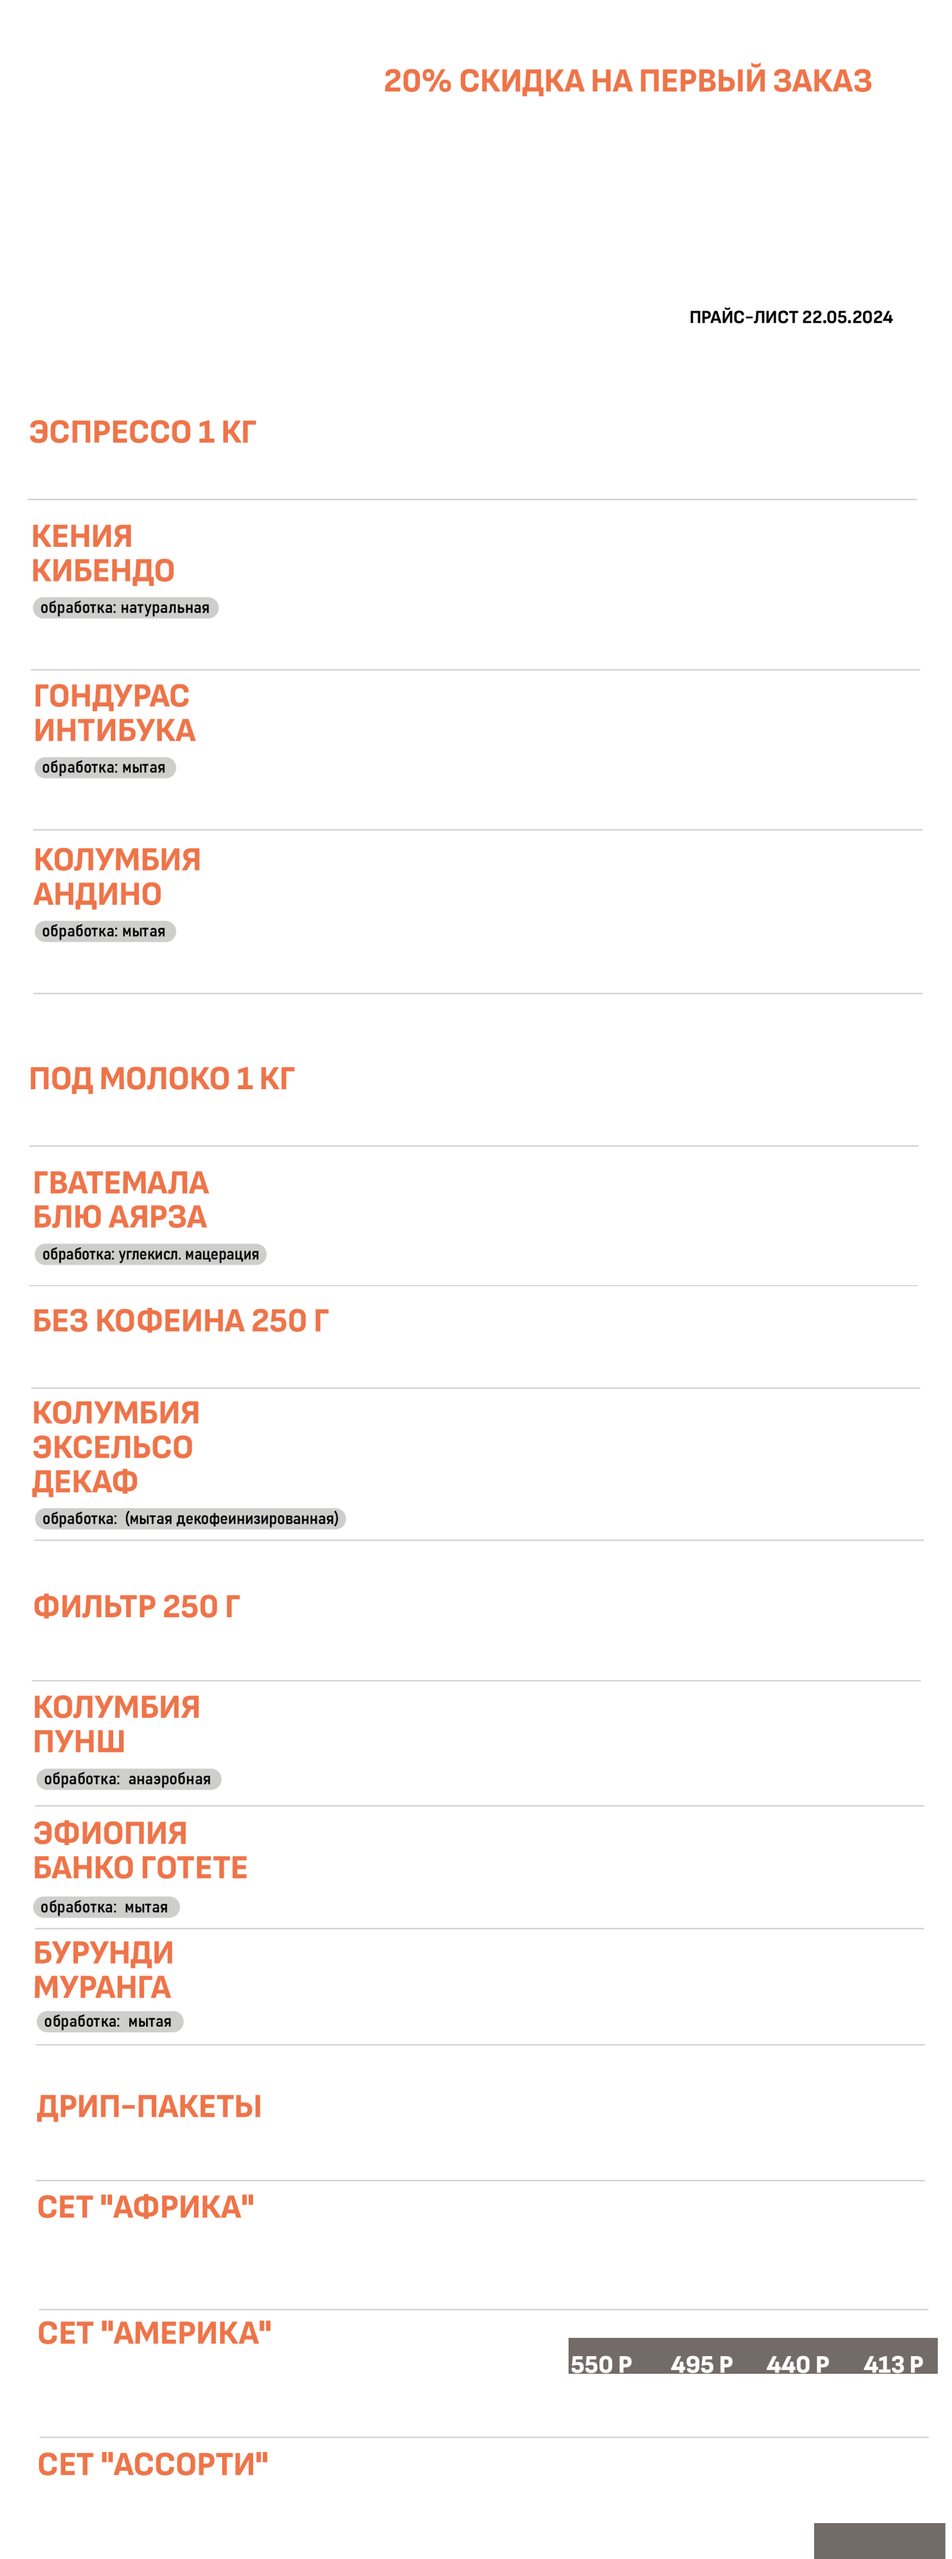
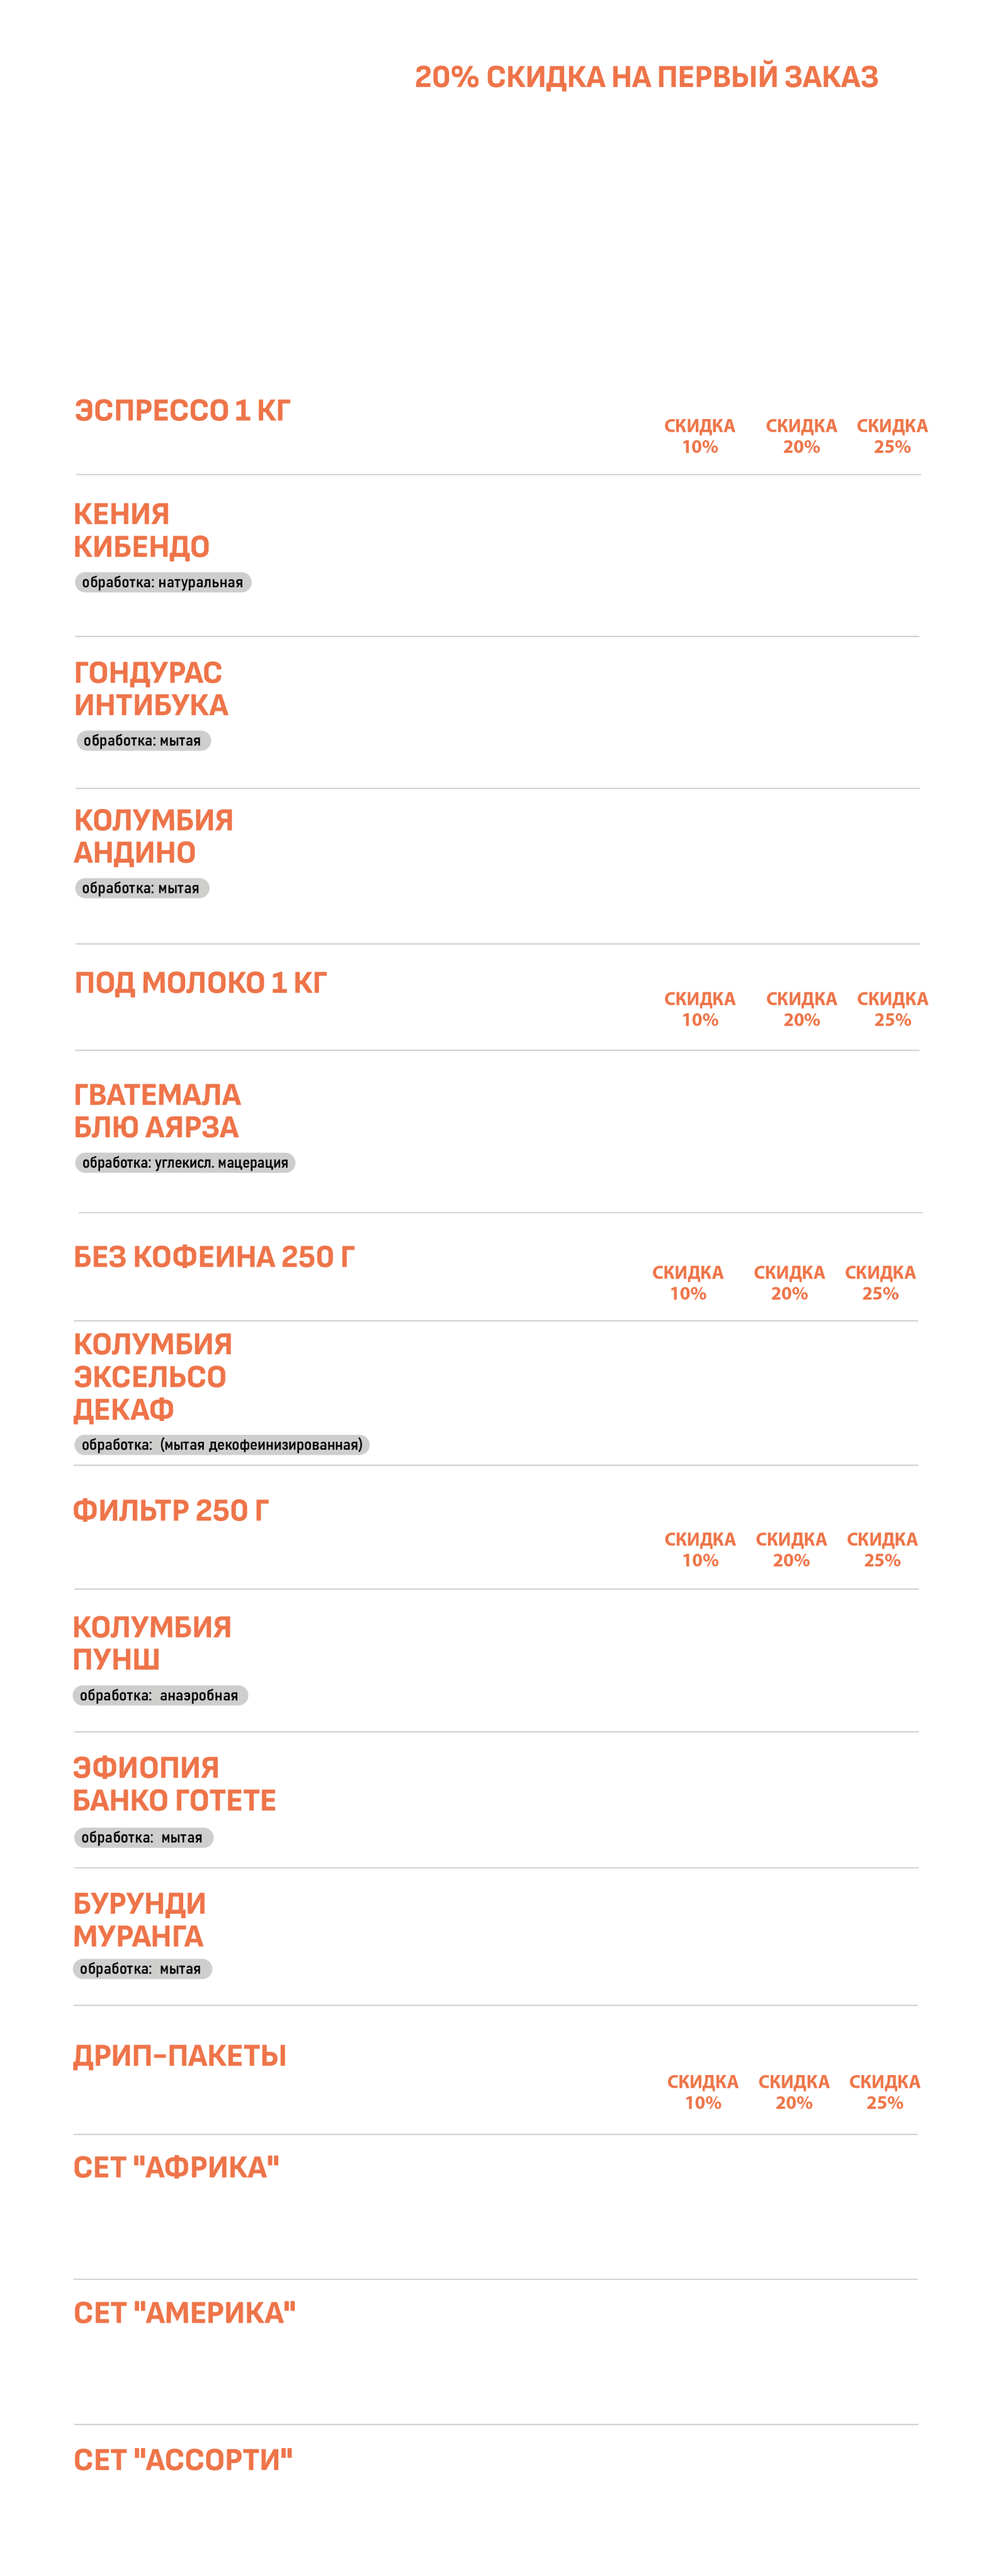
updated img for price

diff --git a/src/css/style.css b/src/css/style.css
@@ -51,6 +51,8 @@
     border-radius: 50%;
 
     cursor: pointer;
+
+    display: none;
 }
 
 .header__basket:hover {
@@ -71,13 +73,12 @@
 
 /* products start */
 .coffee {
-    position: relative;
-
     display: flex;
     padding-top: 2.81vw;
     padding-bottom: 2.97vw;
 
-    
+    background: no-repeat linear-gradient(180deg, rgba(114, 107, 104, 1) 0%, rgba(114, 107, 104, 1) 100%);
+    background-size: 41.5% 100%;
 
     flex-direction: column;
     align-items: center;
@@ -93,6 +94,35 @@
     z-index: 5;
 }
 
+.coffee__wr-button-price {
+    margin-top: 3.23vw;
+    margin-left: 12.24vw;
+}
+
+.coffee__button-price {
+    display: flex;
+
+    width: 17.40vw;
+    height: 2.60vw;
+
+    
+    font-family: "SofiaSans";
+    font-size: 1.04vw;
+    font-weight: 400;
+    
+    color: #fff;
+    border-radius: 1.56vw;
+    background: #F1551C;
+    box-shadow: 31px 18px 10px 0px rgba(0, 0, 0, 0.00),
+     20px 12px 9px 0px rgba(0, 0, 0, 0.02),
+      11px 7px 8px 0px rgba(0, 0, 0, 0.08),
+       5px 3px 6px 0px rgba(0, 0, 0, 0.13),
+        1px 1px 3px 0px rgba(0, 0, 0, 0.15);
+
+    align-items: center;
+    justify-content: center;
+}
+
 .coffee__wr-slider-bottom {
     position: relative;
 
@@ -100,19 +130,6 @@
     width: 85%;
 
     z-index: 5;
-}
-
-.coffee__side-deco {
-    position: absolute;
-    left: 0;
-    top: 0;
-    bottom: 0;
-
-    width: 41.5%;
-
-    background-color: #6B6462;
-
-    z-index: 0;
 }
 
 /* products end */
@@ -143,7 +160,7 @@
     font-weight: 700;
 
     color: #F1551C;
-}
+} 
 
 .orders-are-temporary a {
     text-decoration: underline;
@@ -390,18 +407,53 @@
     }
 }
 
+@media( max-width: 1200px ) {
+    .header__basket {
+        width: 9.87vw;
+        height: 9.87vw;
+
+        display: block;
+        visibility: hidden;
+    }
+}
+
 /* ------------------------------------- */
 
 /* COFFEE */
 @media( max-width: 1200px ) {
     .coffee {
         padding-top: 0;
+        background-size: 0;
+        padding-bottom: 9.97vw;
     }
 }
 
 @media( max-width: 1200px ) {
     .coffee__wr-slider-top {
         width: 100%;
+    }
+}
+
+@media( max-width: 1200px ) {
+    .coffee__wr-button-price {
+        margin-top: 7.20vw;
+        margin-left: 0;
+    }
+}
+
+@media( max-width: 1200px ) {
+    .coffee__button-price {
+        width: 54.40vw;
+        height: 10.67vw;
+
+        font-size: 4.27vw;
+
+        border-radius: 8vw;
+        box-shadow: 31px 18px 10px 0px rgba(0, 0, 0, 0.00),
+         20px 12px 9px 0px rgba(0, 0, 0, 0.02),
+          11px 7px 8px 0px rgba(0, 0, 0, 0.08),
+           5px 3px 6px 0px rgba(0, 0, 0, 0.13),
+            1px 1px 3px 0px rgba(0, 0, 0, 0.15);
     }
 }
 

diff --git a/src/css/slider-coffee.css b/src/css/slider-coffee.css
@@ -418,6 +418,15 @@
 
     width: 75.73vw;
     margin-top: 4.74vw;
+
+    box-shadow: 81px 182px 56px 0px rgba(0, 0, 0, 0.00),
+     52px 116px 51px 0px rgba(0, 0, 0, 0.02),
+      29px 65px 43px 0px rgba(0, 0, 0, 0.08),
+       13px 29px 32px 0px rgba(0, 0, 0, 0.13),
+        3px 7px 17px 0px rgba(0, 0, 0, 0.15),
+         -2px -2px 5px rgba(0,0,0,0.2);
+
+    overflow: hidden;
 }
 
 .sl-prod__big-desc-card {
@@ -431,12 +440,6 @@
     gap: 2.19vw;
 
     background: #726B68;
-    box-shadow: 81px 182px 56px 0px rgba(0, 0, 0, 0.00),
-     52px 116px 51px 0px rgba(0, 0, 0, 0.02),
-      29px 65px 43px 0px rgba(0, 0, 0, 0.08),
-       13px 29px 32px 0px rgba(0, 0, 0, 0.13),
-        3px 7px 17px 0px rgba(0, 0, 0, 0.15),
-         -2px -2px 5px rgba(0,0,0,0.2);
 
     opacity: 0;
 }
@@ -913,6 +916,8 @@
         width: 100%;
         margin-top: 25.87vw;
         padding-top: 8.53vw;
+
+        box-shadow: none;
 
         justify-content: center;
     }
